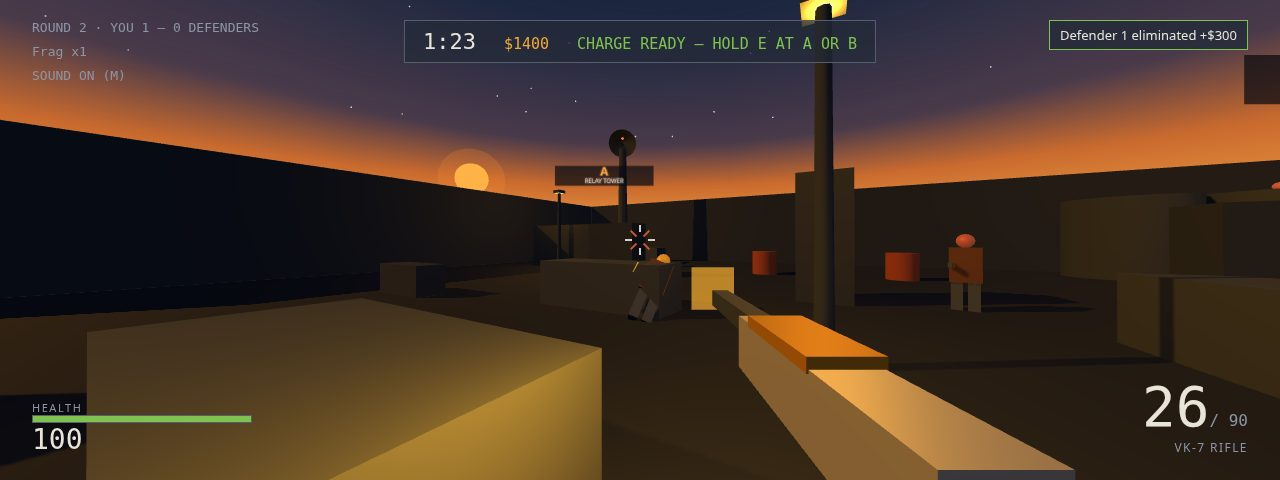
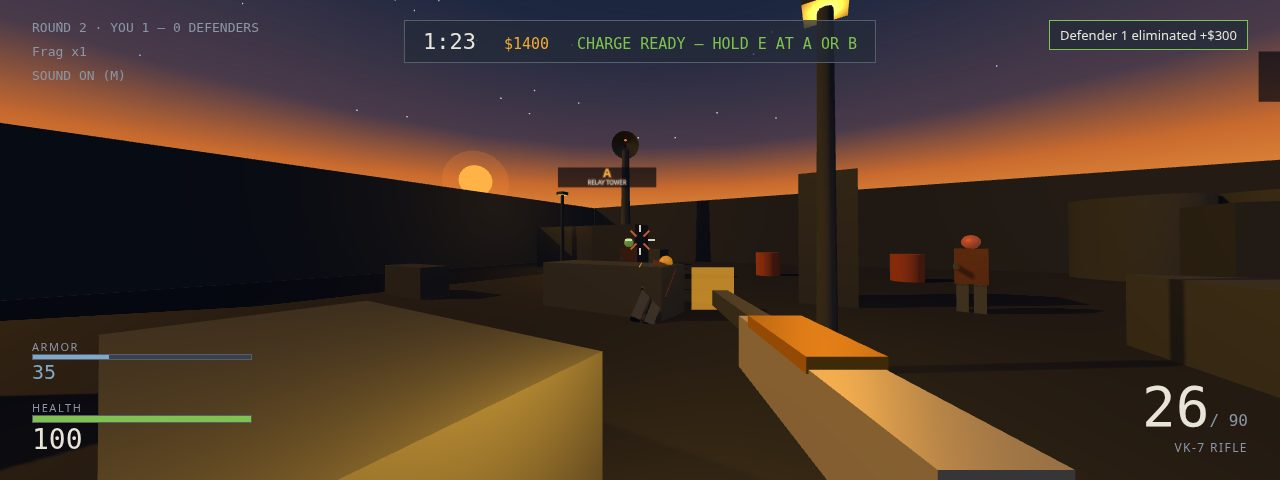
Relay Yard v4: Kevlar vest, sniper scope, three-bot cover
- Kevlar vest ($500) in the buy menu: 100 armor points, absorbs 60% of
  every hit for the whole match, shown as an armor bar under health
  (new game/src/armor.js: one clear job, unit-tested absorb math)
- Sniper scope: aiming with the Longshot shows a dark vignette with a
  fine crosshair and hides the hip-fire crosshair
- Cover staging now shows three defenders (Defender, Rusher, Marksman)
  in the frame; the staged player wears a vest so the shot survives
- Buy menu lists four choices (SMG, Longshot, vest, frag); the cover's
  armor bar proves the vest works in live play

diff --git a/game/src/main.js b/game/src/main.js
@@ -14,6 +14,7 @@ import { createGrenade } from './grenade.js';
 import { createBots } from './bots.js';
 import { createObjective } from './objective.js';
 import { createRounds } from './rounds.js';
+import { createArmor } from './armor.js';
 import { createHud } from './hud.js';
 import { createSoundEffects } from './sound.js';
 
@@ -42,6 +43,7 @@ const grenade = createGrenade(scene, world.colliders);
 const bots = createBots(scene, world.colliders, world.shootables, random);
 const objective = createObjective(scene);
 const rounds = createRounds();
+const armor = createArmor();
 const hud = createHud();
 const sound = createSoundEffects();
 const player = createPlayer(world.colliders, PLAYER_SPAWN);
@@ -161,10 +163,13 @@ function onBotKilled(bot) {
 
 function hurtPlayer(damage) {
   if (!body.alive || damage <= 0) return;
-  body.health -= damage;
+  // The vest eats 60% of the hit while it has points left; the rest reaches
+  // health. The armor bar shows what is left of it.
+  body.health -= armor.absorb(damage);
   shake = 0.35;
   hud.damageFlash();
   hud.setHealth(body.health);
+  hud.setArmor(armor.state.points);
   if (body.health <= 0) {
     body.health = 0;
     body.alive = false;
@@ -218,6 +223,7 @@ function syncHudAmmo() {
 
 function syncHud() {
   hud.setHealth(body.health);
+  hud.setArmor(armor.state.points);
   hud.setTimer(roundsState.timer);
   hud.setMoney(roundsState.money);
   hud.setFrags(roundsState.frags);
@@ -239,6 +245,7 @@ function syncHud() {
 
 function startMatch() {
   rounds.reset();
+  armor.reset();
   bots.reset(1);
   objective.reset();
   grenade.reset();
@@ -264,6 +271,7 @@ function showBuy() {
     money: roundsState.money,
     ownedSmg: arsenal.owned.has('smg'),
     ownedSniper: arsenal.owned.has('sniper'),
+    armor: armor.state.points,
     frags: roundsState.frags,
   });
 }
@@ -357,6 +365,15 @@ hud.onBuySniper(() => {
   if (rounds.buySniper()) {
     arsenal.buy('sniper');
     arsenal.select('sniper');
+    sound.buy();
+    showBuy();
+    syncHud();
+  }
+});
+
+hud.onBuyVest(() => {
+  if (rounds.buyVest()) {
+    armor.add();
     sound.buy();
     showBuy();
     syncHud();
@@ -458,6 +475,8 @@ function frame(now) {
       camera.fov += (targetFov - camera.fov) * Math.min(1, dt * 10);
       camera.updateProjectionMatrix();
     }
+    // The scope vignette only appears when aiming with the Longshot.
+    hud.setScope(body.aiming && arsenal.current() === 'sniper' && roundsState.phase === 'live');
     syncCamera();
   }
   renderer.render(scene, camera);
@@ -493,6 +512,14 @@ function runShot(name) {
     bots.items[1].position.set(4.5, 0, -1.5);
     bots.items[1].state = 'engage';
     bots.items[1].lastKnown.set(0, 0, 8);
+    // A third defender — the Marksman — holds the left lane, so the cover
+    // shows the fight on both sides of the yard. Three defenders shooting
+    // at once can drop the player before the capture, so the staged player
+    // wears a vest: it also shows the armor bar in the cover.
+    bots.items[2].position.set(-6.5, 0, -0.5);
+    bots.items[2].state = 'engage';
+    bots.items[2].lastKnown.set(0, 0, 8);
+    armor.add();
     settle(10);
     aimAt(new THREE.Vector3(-3.2, 1.2, 2.5));
     for (let round = 0; round < 3; round += 1) {
@@ -514,7 +541,7 @@ function runShot(name) {
     body.position.set(0, 0, 14);
     settle(10);
     aimAt(new THREE.Vector3(0, 2, -11));
-    hud.showOverlay('buy', { round: 2, money: 1200, ownedSmg: false, ownedSniper: false, frags: 0 });
+    hud.showOverlay('buy', { round: 2, money: 1200, ownedSmg: false, ownedSniper: false, armor: 0, frags: 0 });
     syncHud();
   } else if (name === 'bomb') {
     roundsState.round = 2;

diff --git a/game/src/hud.js b/game/src/hud.js
@@ -28,12 +28,17 @@ export function createHud() {
   const bannerSub = el('banner-sub');
   const matchHistory = el('match-history');
   const soundValue = el('sound-value');
+  const armorFill = el('armor-fill');
+  const armorValue = el('armor-value');
+  const armorRow = el('armor');
+  const scope = el('scope');
 
   let hitTimer = 0;
   let damageTimer = 0;
   let bannerTimer = 0;
   let lastAmmo = '';
   let lastHealth = -1;
+  let lastArmor = -1;
   let lastTimer = -1;
   let lastMoney = -1;
   let lastRounds = '';
@@ -60,6 +65,20 @@ export function createHud() {
       healthValue.textContent = String(value);
       healthFill.style.width = `${value}%`;
       healthFill.classList.toggle('low', value <= 30);
+    },
+    setArmor(points) {
+      const value = Math.max(0, Math.round(points));
+      if (value === lastArmor) return;
+      lastArmor = value;
+      armorRow.hidden = value <= 0;
+      armorValue.textContent = String(value);
+      armorFill.style.width = `${value}%`;
+    },
+    // The sniper's scope: a dark vignette with a fine crosshair, replacing
+    // the hip-fire crosshair while aiming down sights.
+    setScope(on) {
+      scope.hidden = !on;
+      crosshair.style.visibility = on ? 'hidden' : '';
     },
     setAmmo(mag, reserve, name) {
       const key = `${mag}/${reserve}/${name}`;
@@ -149,7 +168,7 @@ export function createHud() {
         play.textContent = 'Click to resume';
       } else if (mode === 'buy') {
         title.textContent = `ROUND ${data.round} — BUY PHASE`;
-        copy.textContent = `You have $${data.money}. Spend it before the round starts: SMG $900, frag grenade $300. Press B to close the shop and start the round.`;
+        copy.textContent = `You have $${data.money}. Spend it before the round starts: SMG $900, Longshot $1200, Kevlar vest $500, frag grenade $300. Press B to close the shop and start the round.`;
         play.textContent = 'Start round';
         buyPanel.hidden = false;
         el('buy-money').textContent = `$${data.money}`;
@@ -157,6 +176,8 @@ export function createHud() {
         el('buy-smg').textContent = data.ownedSmg ? 'PDW-9 SMG — OWNED' : 'Buy PDW-9 SMG — $900';
         el('buy-sniper').disabled = data.ownedSniper || data.money < 1200;
         el('buy-sniper').textContent = data.ownedSniper ? 'LR-8 Longshot — OWNED' : 'Buy LR-8 Longshot — $1200';
+        el('buy-vest').disabled = data.armor > 0 || data.money < 500;
+        el('buy-vest').textContent = data.armor > 0 ? `Kevlar vest — ARMOR ${Math.round(data.armor)}` : 'Buy Kevlar vest — $500';
         el('buy-frag').disabled = data.money < 300 || data.frags >= 2;
         el('buy-frag').textContent = `Buy frag grenade — $300 (${data.frags}/2)`;
       } else if (mode === 'round') {
@@ -188,6 +209,9 @@ export function createHud() {
     },
     onBuySniper(handler) {
       el('buy-sniper').addEventListener('click', handler);
+    },
+    onBuyVest(handler) {
+      el('buy-vest').addEventListener('click', handler);
     },
     onBuyFrag(handler) {
       el('buy-frag').addEventListener('click', handler);

diff --git a/game/index.html b/game/index.html
@@ -57,6 +57,17 @@
   #health-fill.low { background: var(--rust); }
   #health-value { font-family: var(--font-readout); font-size: 28px; }
   #health-label { font-size: 11px; letter-spacing: .14em; color: var(--muted); }
+  #armor { position: fixed; left: 32px; bottom: 96px; width: 220px; }
+  #armor[hidden] { display: none; }
+  #armor-bar { height: 6px; background: var(--concrete); border: 1px solid var(--steel); }
+  #armor-fill { height: 100%; width: 100%; background: #7fa8c9; }
+  #armor-value { font-family: var(--font-readout); font-size: 20px; color: #7fa8c9; }
+  #armor-label { font-size: 11px; letter-spacing: .14em; color: var(--muted); }
+  #scope { position: fixed; inset: 0; pointer-events: none; background: radial-gradient(circle at 50% 50%, transparent 25%, rgba(2, 4, 8, .88) 30%, rgba(2, 4, 8, .94) 100%); }
+  #scope[hidden] { display: none; }
+  #scope::before, #scope::after { content: ''; position: absolute; background: rgba(232, 228, 218, .75); }
+  #scope::before { left: 50%; top: calc(50% - 46px); width: 1px; height: 92px; transform: translateX(-50%); }
+  #scope::after { top: 50%; left: calc(50% - 46px); height: 1px; width: 92px; transform: translateY(-50%); }
 
   #ammo { position: fixed; right: 32px; bottom: 24px; text-align: right; }
   #ammo-mag { font-family: var(--font-readout); font-size: 56px; line-height: 1; }
@@ -117,6 +128,12 @@
   <div id="crosshair"><i></i><i></i><i></i><i></i></div>
   <div id="hitmarker"><i></i><i></i><i></i><i></i></div>
   <div id="damage"></div>
+  <div id="scope" hidden></div>
+  <div id="armor" hidden>
+    <div id="armor-label">ARMOR</div>
+    <div id="armor-bar"><div id="armor-fill"></div></div>
+    <div id="armor-value">0</div>
+  </div>
   <div id="health">
     <div id="health-label">HEALTH</div>
     <div id="health-bar"><div id="health-fill"></div></div>
@@ -148,6 +165,7 @@
       <div>Wallet: <span id="buy-money">$800</span></div>
       <button id="buy-smg" type="button">Buy PDW-9 SMG — $900</button>
       <button id="buy-sniper" type="button">Buy LR-8 Longshot — $1200</button>
+      <button id="buy-vest" type="button">Buy Kevlar vest — $500</button>
       <button id="buy-frag" type="button">Buy frag grenade — $300 (0/2)</button>
     </div>
     <ul class="keys">

diff --git a/game/src/armor.js b/game/src/armor.js
@@ -1,0 +1,26 @@
+// Kevlar vest: bought once in the buy menu, it lasts the whole match until
+// it is shot through. While it has points left it absorbs 60% of every hit,
+// so a $500 vest soaks roughly 165 damage before the player starts bleeding.
+const VEST_POINTS = 100;
+const ABSORB_FRACTION = 0.6;
+
+export function createArmor() {
+  const state = { points: 0 };
+
+  return {
+    state,
+    reset() {
+      state.points = 0;
+    },
+    add() {
+      state.points = VEST_POINTS;
+    },
+    // Returns the damage that still reaches the player's health.
+    absorb(damage) {
+      if (state.points <= 0 || damage <= 0) return damage;
+      const absorbed = Math.min(state.points, damage * ABSORB_FRACTION);
+      state.points -= absorbed;
+      return damage - absorbed;
+    },
+  };
+}

diff --git a/game/src/rounds.js b/game/src/rounds.js
@@ -7,7 +7,7 @@ export const ROUND_TIME = 100;
 export const ROUNDS_TO_WIN = 3;
 export const MAX_ROUNDS = 5;
 
-export const PRICES = { smg: 900, sniper: 1200, frag: 300 };
+export const PRICES = { smg: 900, sniper: 1200, vest: 500, frag: 300 };
 
 export function createRounds() {
   const state = {
@@ -83,6 +83,11 @@ export function createRounds() {
     buySniper() {
       if (state.money < PRICES.sniper) return false;
       state.money -= PRICES.sniper;
+      return true;
+    },
+    buyVest() {
+      if (state.money < PRICES.vest) return false;
+      state.money -= PRICES.vest;
       return true;
     },
     useFrag() {

diff --git a/README.md b/README.md
@@ -4,7 +4,7 @@
 [![rank](https://make.fun/badge/best-game-01/oktamind/threejs-tactical-fps/rank.svg)](https://make.fun/bounty/best-game-01/leaderboard?utm_source=github&utm_medium=readme&utm_campaign=best-game-01)
 [![reward](https://make.fun/badge/best-game-01/oktamind/threejs-tactical-fps/reward.svg)](https://make.fun/bounty/best-game-01?utm_source=github&utm_medium=readme&utm_campaign=best-game-01)
 
-Relay Yard: a round-based tactical FPS in three.js. Plant the charge at site A or B, or eliminate all four defenders, before the clock runs out — with a buy menu, four weapons (rifle, SMG, pistol and a one-shot-headshot sniper), frag grenades, sprint and aim-down-sights, and three defender types (patrolling Defenders, rushing Rushers, long-range Marksmen) that patrol, hear gunfire, converge to defuse, and get tougher every round. Synthesised WebAudio sound, muzzle flash, tracers, screen shake, a dusk sky with stars and a low sun, floating site labels, a sweeping radar dish over the yard, and a match-results screen with a round-by-round history.
+Relay Yard: a round-based tactical FPS in three.js. Plant the charge at site A or B, or eliminate all four defenders, before the clock runs out — with a buy menu, four weapons (rifle, SMG, pistol and a one-shot-headshot sniper), a Kevlar vest that soaks 60% of every hit, frag grenades, sprint and aim-down-sights with a sniper scope, and three defender types (patrolling Defenders, rushing Rushers, long-range Marksmen) that patrol, hear gunfire, converge to defuse, and get tougher every round. Synthesised WebAudio sound, muzzle flash, tracers, screen shake, a dusk sky with stars and a low sun, floating site labels, a sweeping radar dish over the yard, and a match-results screen with a round-by-round history.
 
 ## Run it
 
